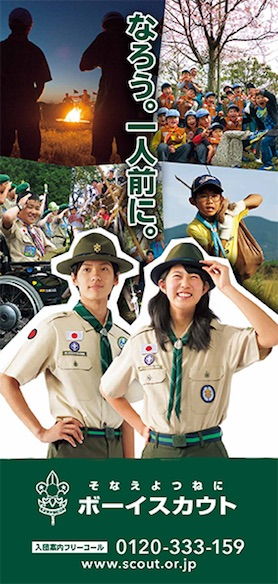
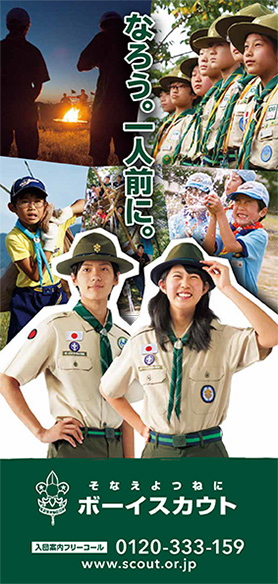
H30の情報に更新

diff --git a/content/poster/poster1.html b/content/poster/poster1.html
@@ -44,7 +44,7 @@
 				<p>日本連盟ポスター</p>
 		        	<img class="responsive-img" src="img/poster1.jpg">
 		      	<div>
-		      		<a href="https://drive.google.com/file/d/1muqneGl3J6TCcA2WyQrwfSQTp4W_ceao/view?usp=sharing" class="btn download-button"><i class="material-icons left">file_download</i>ダウンロード</a><br />
+		      		<a href="https://drive.google.com/file/d/1ghFqwmVUO8GEeMMCHbxHe28SYQuSWKtU/view?usp=sharing" class="btn download-button"><i class="material-icons left">file_download</i>ダウンロード</a><br />
 		      		Google Driveにジャンプします。<br />
 		      		ダウンロードを行うことにより「<a href="../../about.html">各種使用に関して</a>」に同意したものとします。
 		      	</div>

diff --git a/content/booklet/3ori.html b/content/booklet/3ori.html
@@ -44,7 +44,7 @@
 				<p>リーフレット</p>
 		        	<img class="responsive-img" src="img/3ori.jpg">
 		      	<div>
-		      		<a href="https://drive.google.com/file/d/1bpfWxAU8XBjWbTtDMFBouecUVzK8qtxi/view?usp=sharing" class="btn download-button"><i class="material-icons left">file_download</i>ダウンロード</a><br />
+		      		<a href="https://drive.google.com/file/d/1Be-lyTegG3lUXgW1xLmNsgrlkA6tLIBO/view?usp=sharing" class="btn download-button"><i class="material-icons left">file_download</i>ダウンロード</a><br />
 		      		Google Driveにジャンプします。<br />
 		      		ダウンロードを行うことにより「<a href="../../about.html">各種使用に関して</a>」に同意したものとします。
 		      	</div>

diff --git a/content/booklet/dantai.html b/content/booklet/dantai.html
@@ -44,7 +44,7 @@
 				<p>団体案内</p>
 		        	<img class="responsive-img" src="img/dantai.jpg">
 		      	<div>
-		      		<a href="https://drive.google.com/file/d/1lWf7_a2GJpqvKGBoF4LS_ZcYv42j7YeD/view?usp=sharing" class="btn download-button"><i class="material-icons left">file_download</i>ダウンロード</a><br />
+		      		<a href="https://drive.google.com/file/d/18rZcu1GC8xT5WZGiolaXVrZng3W2p6uN/view?usp=sharing" class="btn download-button"><i class="material-icons left">file_download</i>ダウンロード</a><br />
 		      		Google Driveにジャンプします。<br />
 		      		ダウンロードを行うことにより「<a href="../../about.html">各種使用に関して</a>」に同意したものとします。
 		      	</div>

diff --git a/content/booklet/qa.html b/content/booklet/qa.html
@@ -44,7 +44,7 @@
 				<p>Q&A</p>
 		        	<img class="responsive-img" src="img/qa.jpg">
 		      	<div>
-		      		<a href="https://drive.google.com/file/d/1ekf9Yzi1LZQKdV31S8rdHE-gHgMo5_an/view?usp=sharing" class="btn download-button"><i class="material-icons left">file_download</i>ダウンロード</a><br />
+		      		<a href="https://drive.google.com/file/d/1tteVO3ZL5u90lC_yi7sUsr4erQvJJoTq/view?usp=sharing" class="btn download-button"><i class="material-icons left">file_download</i>ダウンロード</a><br />
 		      		Google Driveにジャンプします。<br />
 		      		ダウンロードを行うことにより「<a href="../../about.html">各種使用に関して</a>」に同意したものとします。
 		      	</div>
